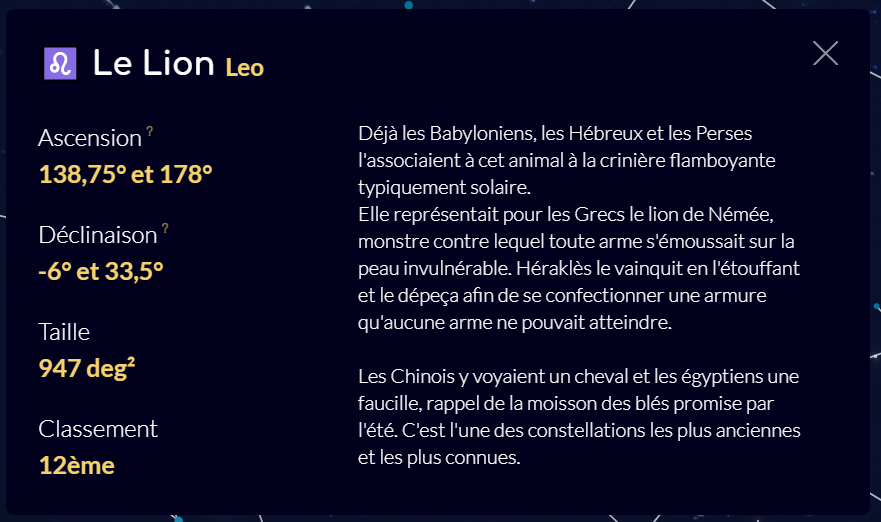
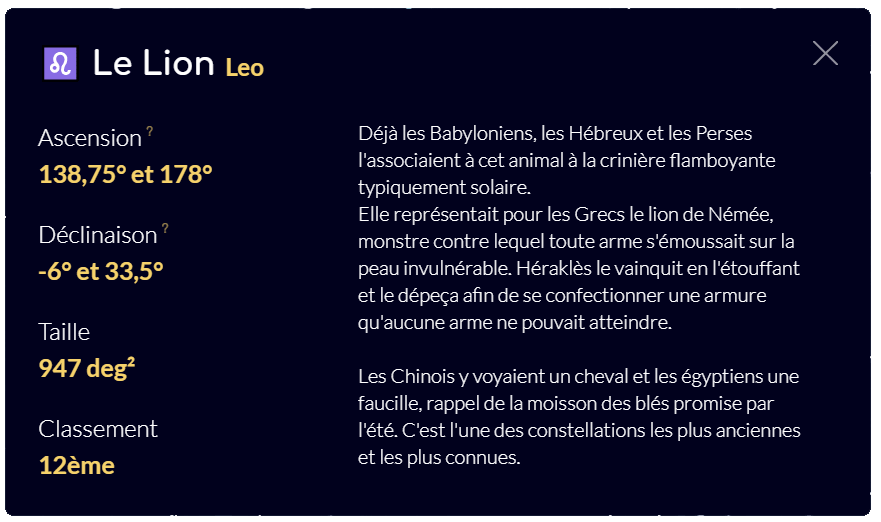
Images min + retina

Changed region(s): [[0.0, 0.0, 1.0, 1.0]]

diff --git a/src/index.html b/src/index.html
@@ -67,8 +67,9 @@
                 </section>
 
                 <section class="sect--02-image" >
-                    
-                    <img class="image" src="assets/images/const-img.jpg" alt="extrait de la page constellation" class="const-img">
+                    <img class="image" src="assets/images/const-img.jpg"
+                    srcset="assets/images/const-img.jpg 1x,
+                    assets/images/const-img@2x.jpg 2x" alt="extrait de la page constellation">
                 </section>
 
             </section>
@@ -82,8 +83,9 @@
                 </section>
 
                 <section class="sect--03-image" >
-                    <img class="image" src="assets/images/box-info.png" alt="box d'informations" class="box-info-img">
-
+                    <img class="image" src="assets/images/box-info.png"
+                    srcset="assets/images/box-info.png 1x,
+                    assets/images/box-info@2x.png 2x" alt="box d'informations">
                 </section>
 
             </section>
